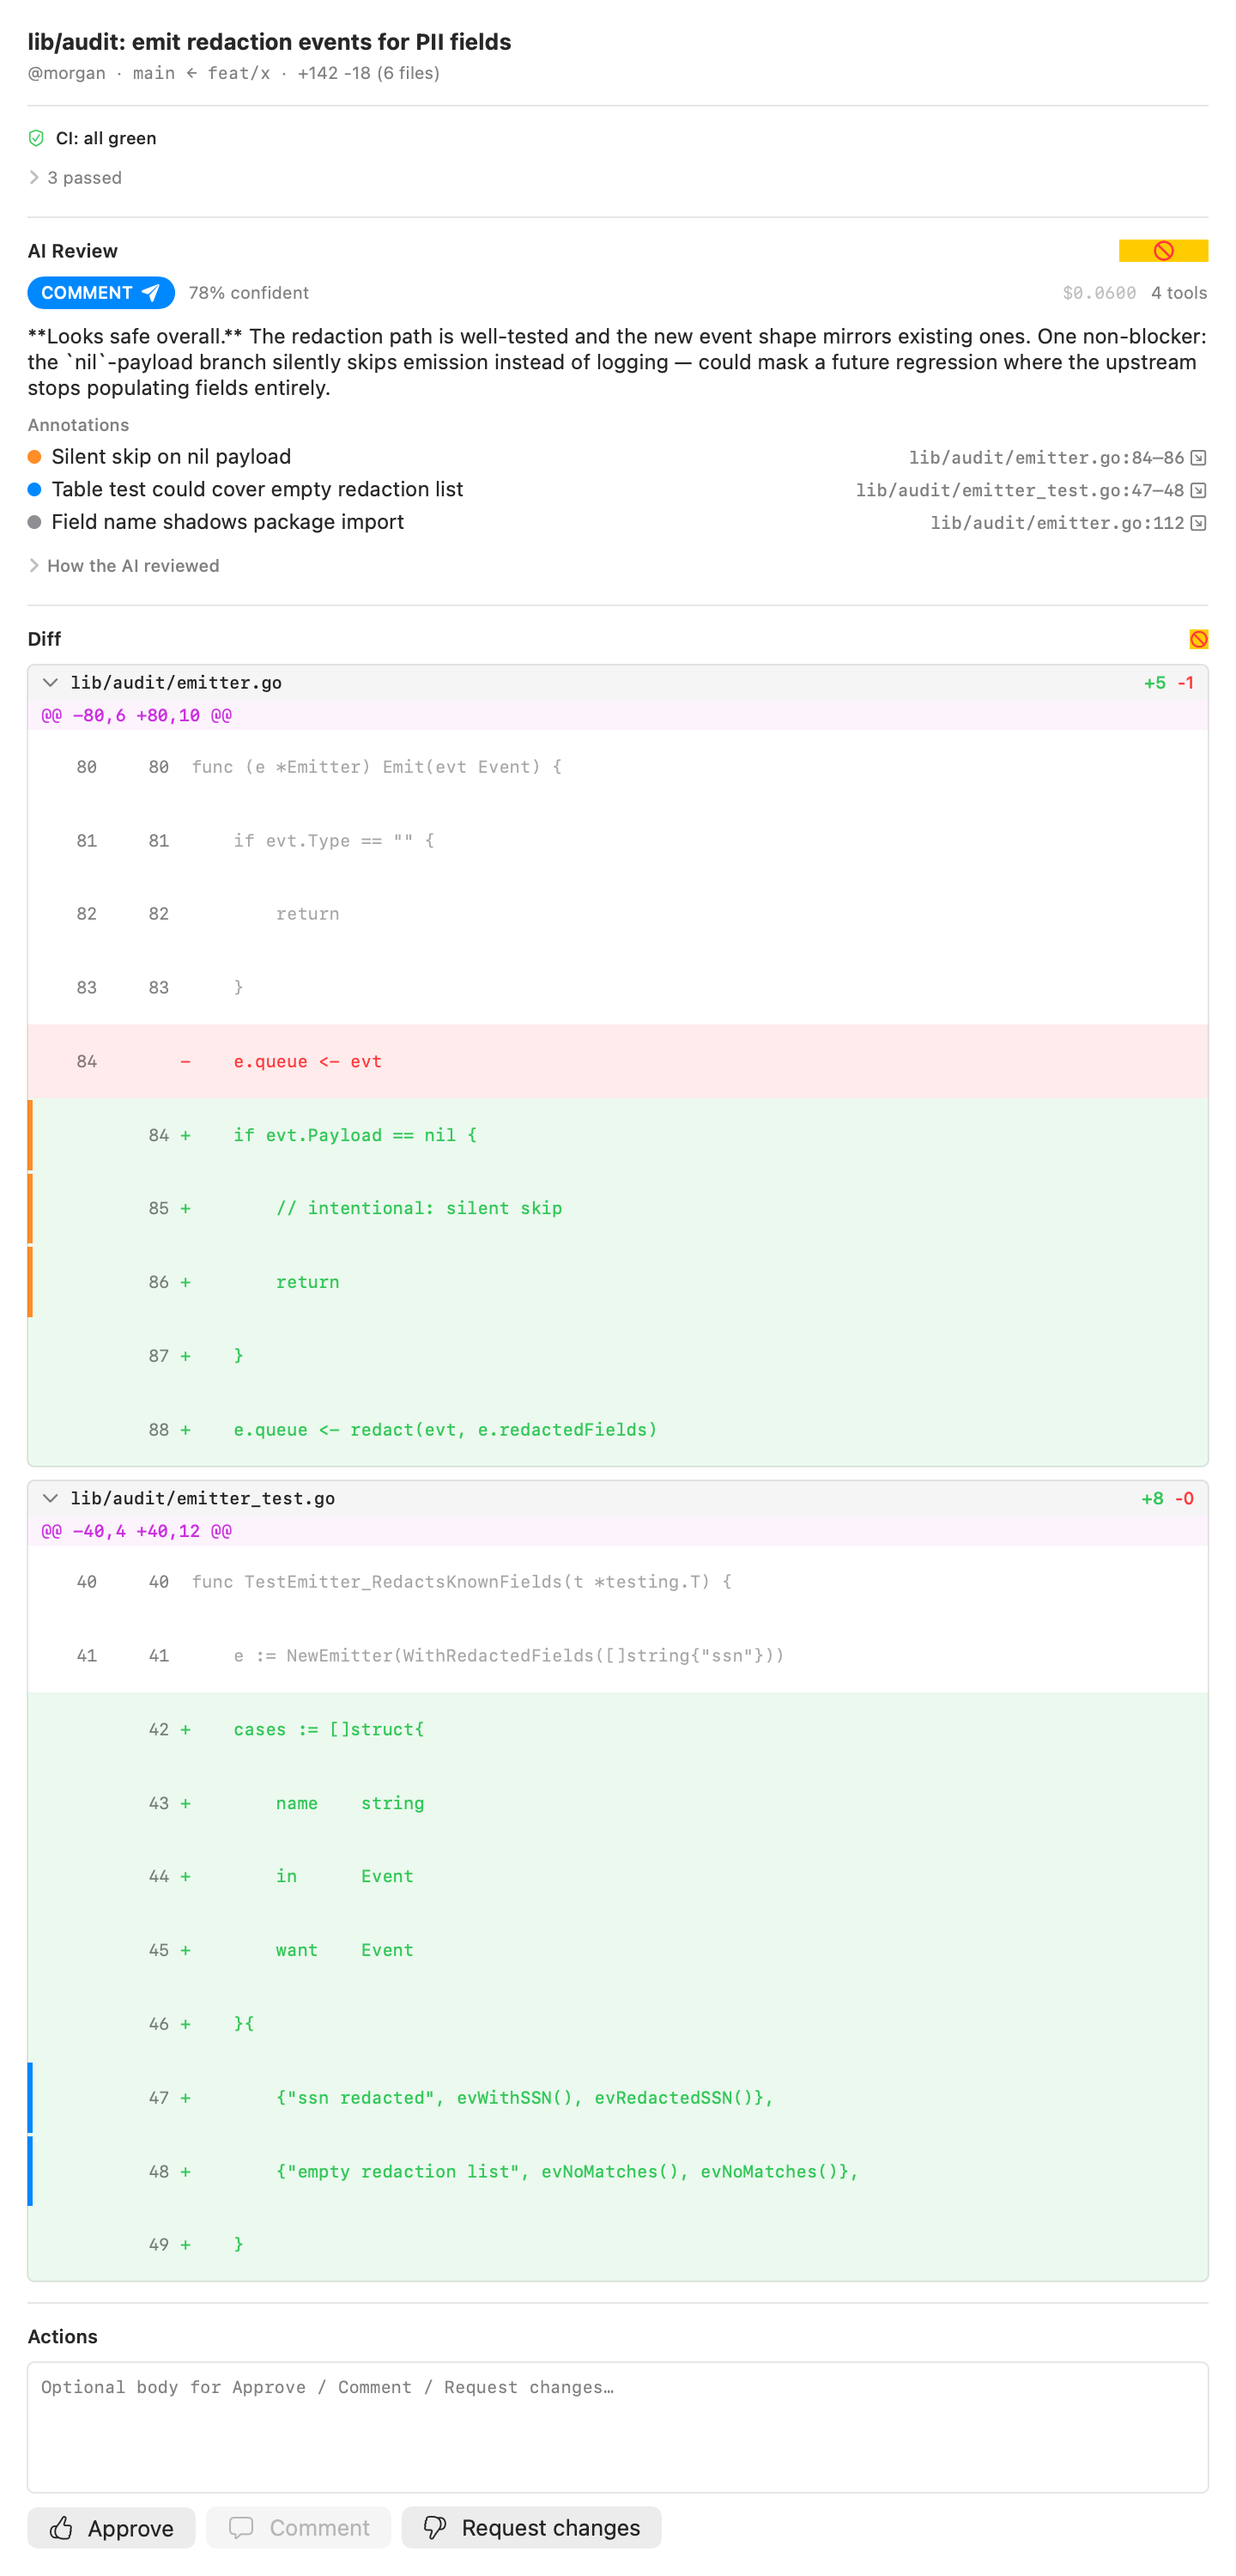
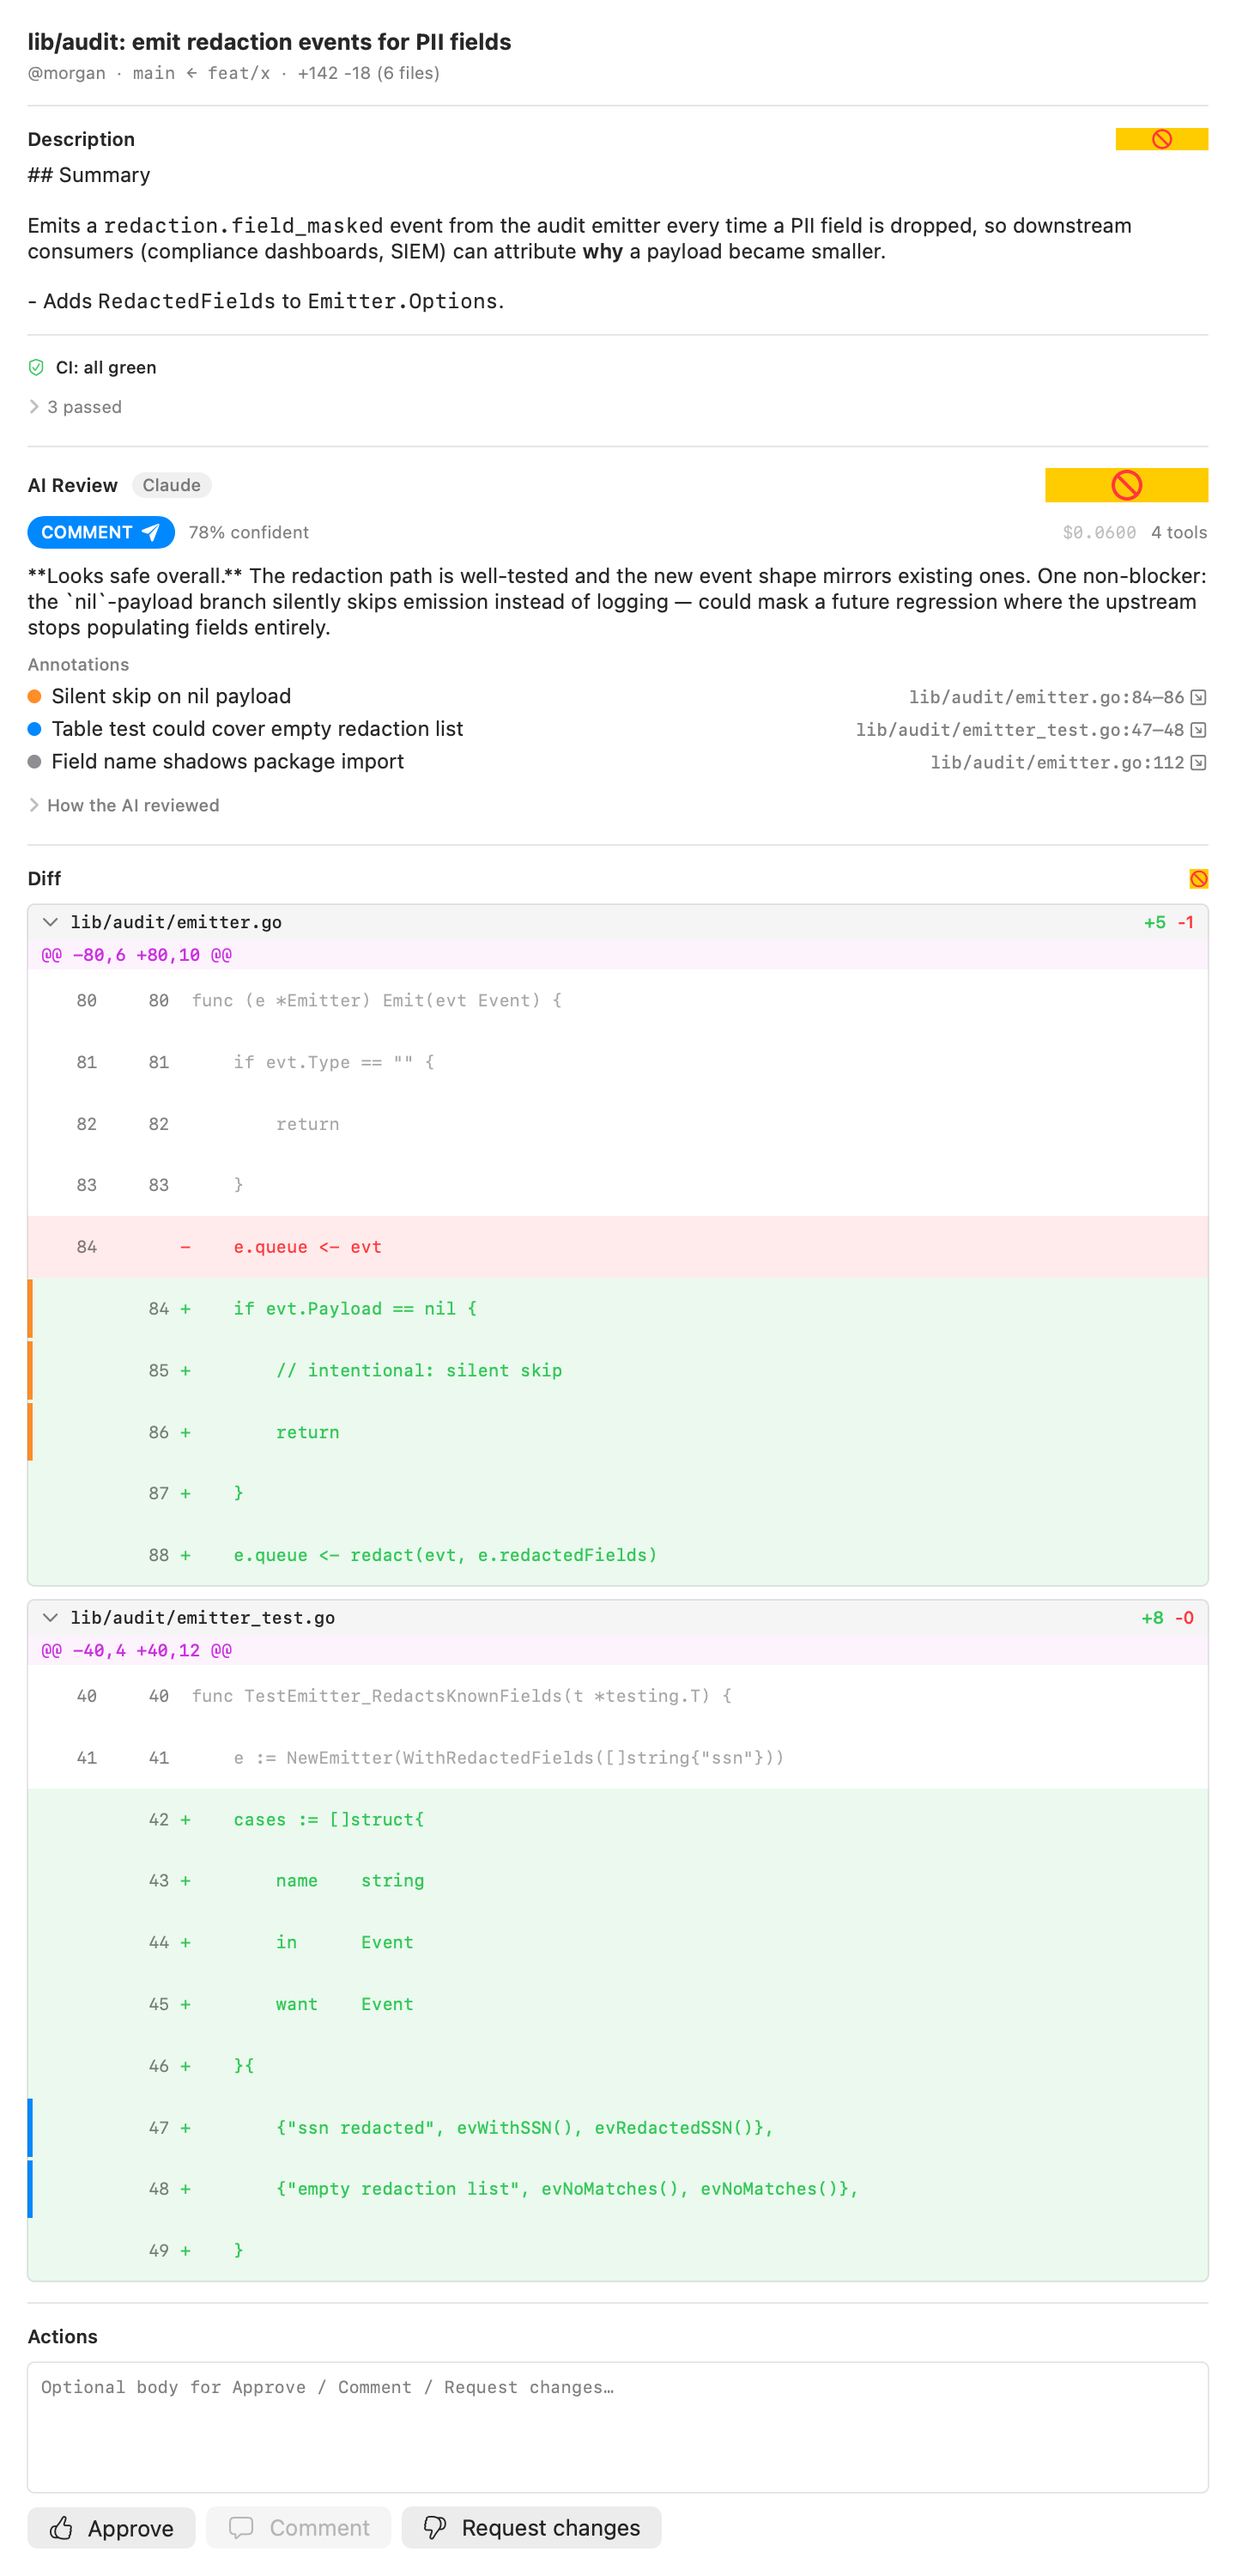
prbar: PR description section in detail view; refreshed screenshots; AGENTS.md
- PRDetailView gains a "Description" section above the CI panel when
  pr.body is non-empty. Inline markdown via Foundation's
  AttributedString(markdown:, .inlineOnlyPreservingWhitespace) — bold,
  italic, inline code, and links render; block constructs (heading
  sizes, fenced code blocks, blockquotes) stay as plain text. Adding a
  full markdown package (MarkdownUI) is the upgrade path if real PRs
  need richer rendering.
- Collapsed to ~6 lines by default with Show more / Show less toggle;
  body is also tap-to-expand so the small button isn't the only target.
- ScreenshotTests fixture grows a realistic body so the marketing
  screenshots showcase the section. PNGs regenerated.
- AGENTS.md (codex-generated contributor guide) added — useful onboarding
  doc that mirrors CLAUDE.md's intent for codex-the-CLI.

diff --git a/Tests/PRBarTests/ScreenshotTests.swift b/Tests/PRBarTests/ScreenshotTests.swift
@@ -263,6 +263,21 @@ private func makeFixtures(scenario: Scenario) -> ScreenshotFixtures {
             reviewDecision: "REVIEW_REQUIRED",
             checkRollupState: "SUCCESS",
             additions: 142, deletions: 18, files: 6,
+            body: """
+            ## Summary
+
+            Emits a `redaction.field_masked` event from the audit \
+            emitter every time a PII field is dropped, so downstream \
+            consumers (compliance dashboards, SIEM) can attribute \
+            **why** a payload became smaller.
+
+            - Adds `RedactedFields` to `Emitter.Options`.
+            - New event payload: `{tenant, field_path, reason}`.
+            - Test cases cover SSN, email, and the empty-list edge case.
+
+            Closes [#PLAT-2104](https://example.com/issues/2104). \
+            cc @kai for the dashboard wiring.
+            """,
             checks: [
                 CheckSummary(typename: "CheckRun", name: "CI / build",  conclusion: "SUCCESS", status: "COMPLETED", url: nil),
                 CheckSummary(typename: "CheckRun", name: "CI / test",   conclusion: "SUCCESS", status: "COMPLETED", url: nil),
@@ -564,12 +579,13 @@ private func makePR(
     reviewDecision: String? = "REVIEW_REQUIRED",
     checkRollupState: String = "PENDING",
     additions: Int = 50, deletions: Int = 10, files: Int = 2,
+    body: String = "## Summary\n\n- Concrete, focused changes for the screenshot fixtures.",
     checks: [CheckSummary] = []
 ) -> InboxPR {
     InboxPR(
         nodeId: nodeId, owner: owner, repo: repo, number: number,
         title: title,
-        body: "## Summary\n\n- Concrete, focused changes for the screenshot fixtures.",
+        body: body,
         url: URL(string: "https://github.com/\(owner)/\(repo)/pull/\(number)")!,
         author: author, headRef: "feat/x", baseRef: "main", headSha: headSha,
         isDraft: isDraft, role: role,

diff --git a/AGENTS.md b/AGENTS.md
@@ -1,0 +1,24 @@
+# Repository Guidelines
+
+## Project Structure & Module Organization
+`Sources/PRBar/` contains the macOS app code, grouped by responsibility: `Models/`, `Services/`, `UI/`, and `Util/`. Unit tests live in `Tests/PRBarTests/` and generally mirror the production type they cover, for example `PRPoller.swift` and `PRPollerTests.swift`. Bundled assets and runtime data live under `Resources/`, including `Assets.xcassets`, prompt templates, and JSON schemas. Use `docs/` for design notes and screenshots, and `bin/` for the supported local workflow scripts.
+
+## Build, Test, and Development Commands
+Prefer the wrapper scripts over raw `xcodebuild` calls:
+
+- `bin/regen` regenerates `PRBar.xcodeproj` from `project.yml` with XcodeGen.
+- `bin/build` regenerates the project and builds a Debug app into `build/Debug/`.
+- `bin/test` regenerates the project and runs the `PRBar` XCTest suite.
+- `bin/run` builds, kills any existing `PRBar` process, and launches the app.
+- `bin/screenshots` runs `ScreenshotTests` and writes images to `docs/screenshots/`.
+
+CI runs `bin/build` and `bin/test` on macOS 14, so local changes should pass both before opening a PR.
+
+## Coding Style & Naming Conventions
+This is a Swift 6 codebase targeting macOS 14. Follow the existing style: 4-space indentation, `UpperCamelCase` for types, `lowerCamelCase` for methods and properties, and focused extensions/helpers rather than oversized files. Keep SwiftUI view names noun-based (`PRDetailView`, `InboxView`) and service types action-oriented (`PRPoller`, `ReviewCache`). Use brief comments only where intent is not obvious from the code.
+
+## Testing Guidelines
+Tests use XCTest with async coverage where appropriate. Name test files `*Tests.swift` and test methods `test...`, describing the behavior under test, for example `testPollNowFetchesAndStoresPRs`. Add or update targeted tests whenever changing polling, provider integration, diff parsing, or review flow behavior. Run `bin/test` for the full suite and `bin/screenshots` when UI output changes.
+
+## Commit & Pull Request Guidelines
+Recent commits use short scoped subjects such as `ci: build + test workflow on push and PR` and `prbar: derive version from git, inject at build time`. Keep that pattern: lowercase scope, colon, concise imperative summary. PRs should explain user-visible impact, note test coverage, and include screenshots when menu bar or popover UI changes. Do not commit generated `*.xcodeproj/` or `build/` artifacts; `project.yml` is the source of truth.
